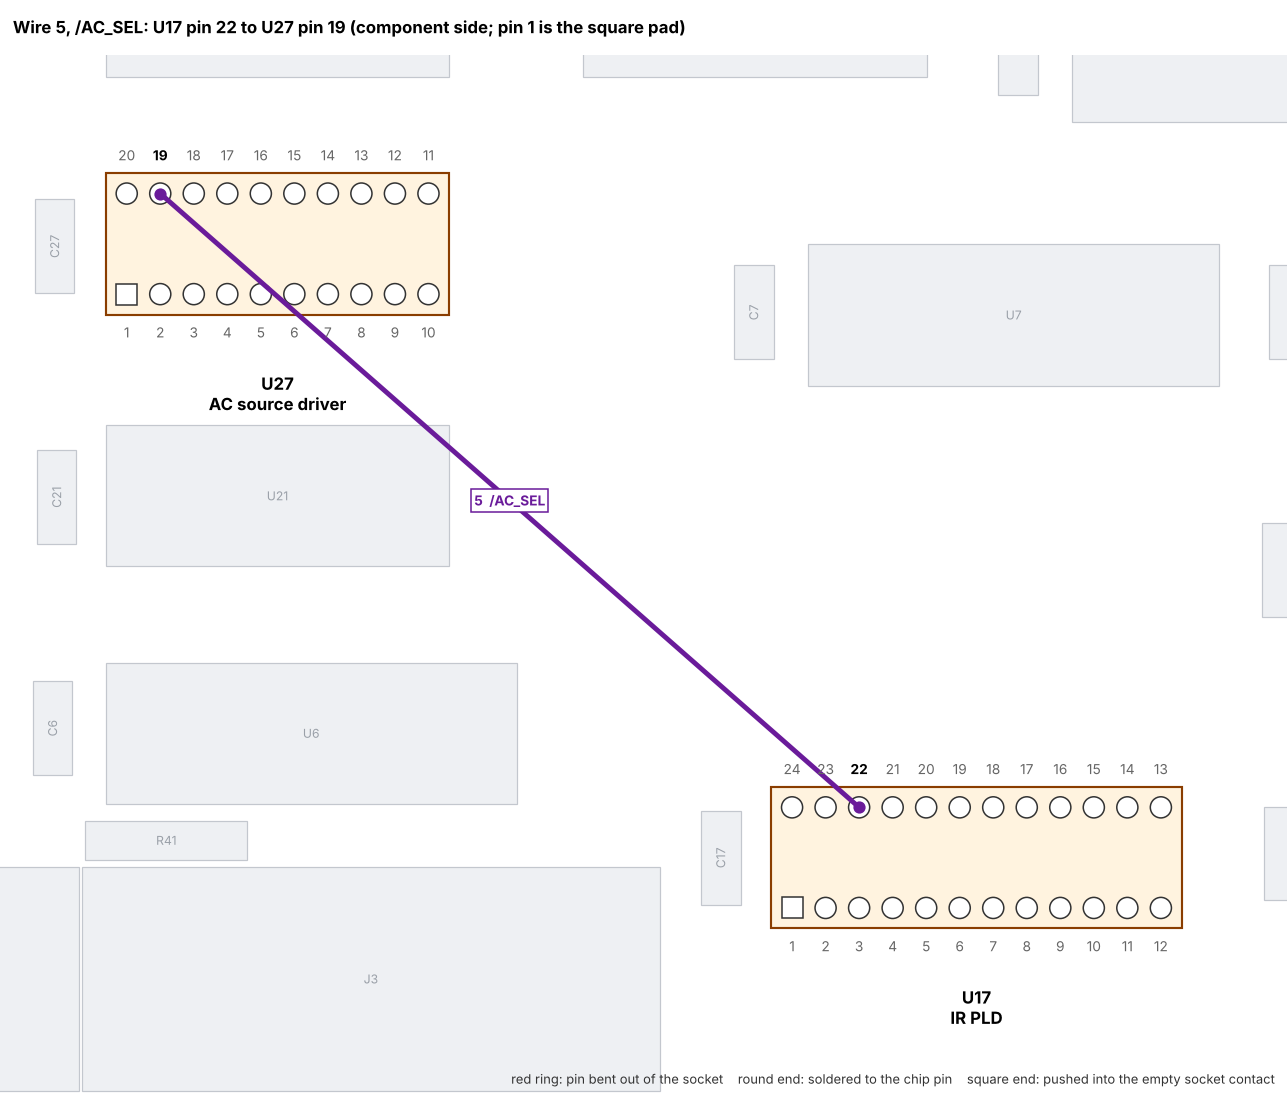
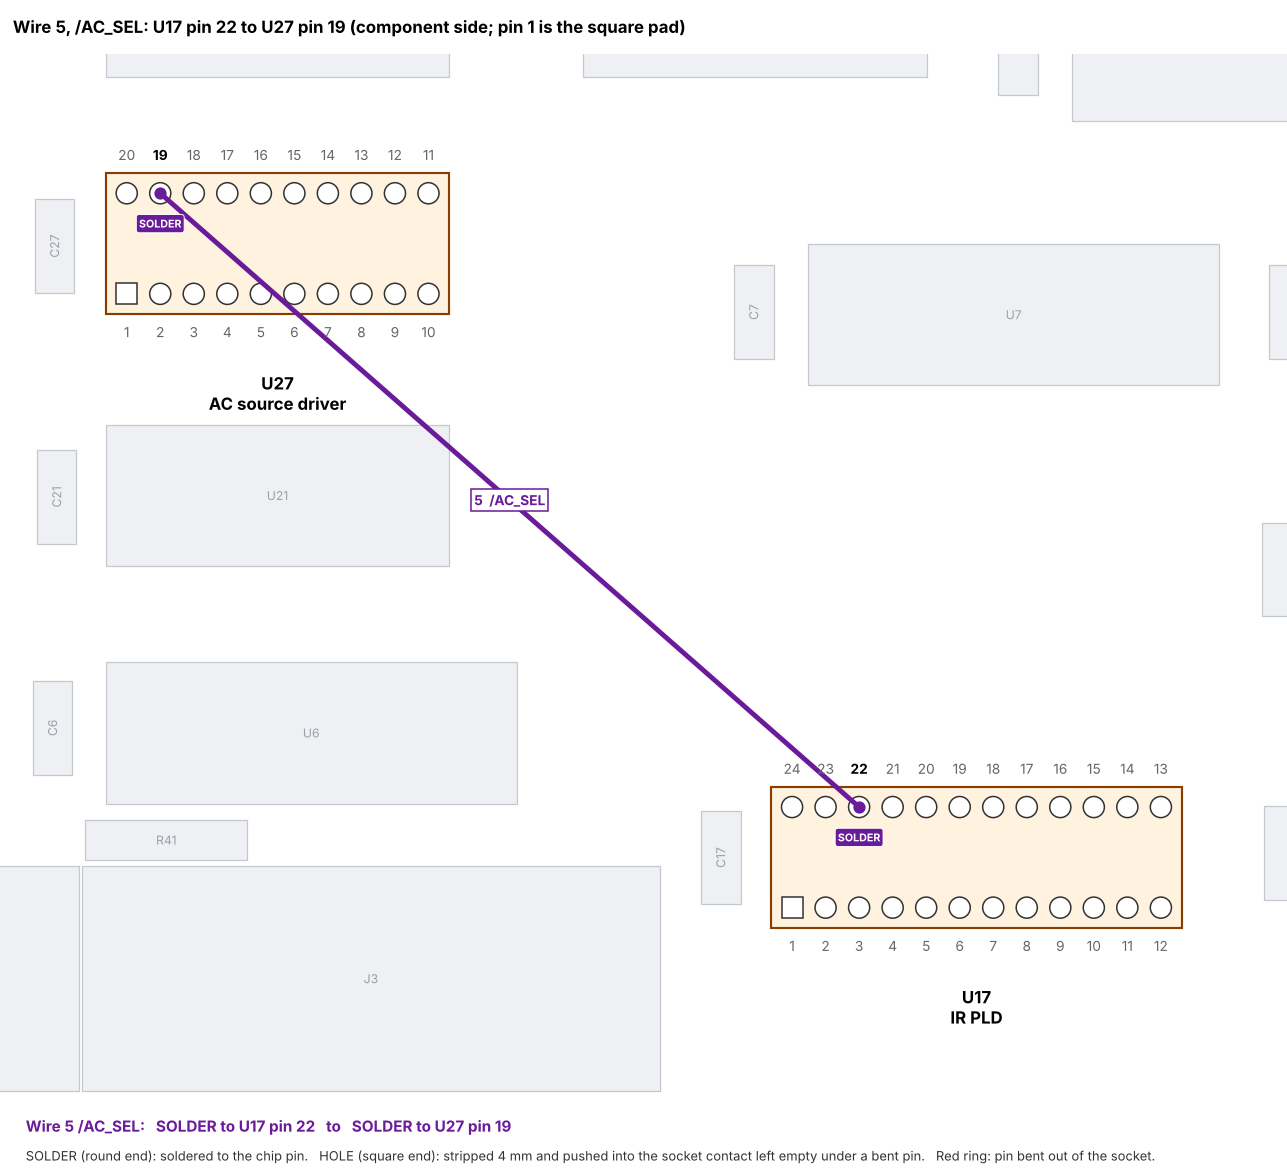
Rev B mod pictures: tag every wire end SOLDER or HOLE, wire list under each close-up
Claude-Session: https://claude.ai/code/session_01DnW5SSquubgjVJMDSZnqaz

diff --git a/src/scripts/gen_revb_mod.py b/src/scripts/gen_revb_mod.py
@@ -8,7 +8,9 @@ Draws, from kicad/placard.kicad_pcb (read as text, never written):
 
     revb_mod_board.png    the whole board, the chips and the wire runs
     revb_mod_video.png    U35, U13 and U15 enlarged: every pin numbered,
-                          the lifted pins and the four wires there
+                          the lifted pins and the four wires there, each
+                          wire end tagged SOLDER (on the chip pin) or HOLE
+                          (in the empty socket contact), and the wire list
     revb_mod_acsel.png    U17 and U27 enlarged: the /AC_SEL wire
 
 The lifts and wires are the tables LIFT and WIRES below; the guide's
@@ -131,7 +133,8 @@ def board(parts, edge, path):
     for name, col, ends in WIRES:
         (ax1, ay1), (ax2, ay2) = [parts[r].pads[n] for r, n, _h in ends]
         ax.plot([ax1, ax2], [ay1, ay2], color=col, lw=2.2, zorder=7, solid_capstyle='round')
-        ax.plot([ax1, ax2], [ay1, ay2], 'o', color=col, ms=4, zorder=7)
+        for (qx, qy), (_r, _n, how) in zip([(ax1, ay1), (ax2, ay2)], ends):
+            ax.plot([qx], [qy], 's' if how == 'hole' else 'o', color=col, ms=4, zorder=7)
     # the names: one box for the four short wires at the video PLDs, one on the long wire
     ax.text(306, 112, 'wires 1-4: T2, T2, /P0, LC7\n(see the close-up)', ha='center', va='center', fontsize=8,
             fontweight='bold', color='#333333', zorder=8, bbox=dict(fc='white', ec='#333333', lw=0.6, pad=2))
@@ -156,8 +159,17 @@ def closeup(parts, refs, wires, title, path, k=0.2, margin=(9, 12, 9, 9), others
     x1 = max(b[2] for b in boxes) + margin[2]
     y1 = max(b[3] for b in boxes) + margin[3]
     w, h = x1 - x0, y1 - y0
-    fig = plt.figure(figsize=(w * k, h * k + 0.5))
-    ax = fig.add_axes([0, 0, 1, h * k / (h * k + 0.5)])
+    lines = []                               # the wire list under the drawing
+    for name, col, es in wires:
+        t = ['%s %s pin %s%s' % ('SOLDER to' if how == 'pin' else 'HOLE: push into the empty socket contact of',
+                                 r, n, ' (bent out)' if how == 'pin' and (r, n) in LIFT else '')
+             for r, n, how in es]
+        lines.append(('Wire %s:   %s   to   %s' % (name.replace('  ', ' '), t[0], t[1]), col))
+    lh = 0.24                                # inches per list line
+    low = lh * (len(lines) + 1) + 0.15
+    fh = h * k + 0.5 + low
+    fig = plt.figure(figsize=(w * k, fh))
+    ax = fig.add_axes([0, low / fh, 1, h * k / fh])
     ax.set_xlim(x0, x1)
     ax.set_ylim(y1, y0)
     ax.set_aspect('equal')
@@ -214,15 +226,28 @@ def closeup(parts, refs, wires, title, path, k=0.2, margin=(9, 12, 9, 9), others
             both = len(set(h for h, _c in ends[(r, n)])) > 1
             pts.append((x, y + (0.55 if how == 'hole' else -0.55) * (1 if both else 0)))
         ax.plot([q[0] for q in pts], [q[1] for q in pts], color=col, lw=3.2, zorder=5, solid_capstyle='round')
-        for (x, y), (_r, _n, how) in zip(pts, es):
+        for (x, y), (r, _n, how) in zip(pts, es):
             ax.plot([x], [y], marker='s' if how == 'hole' else 'o', color=col, ms=7, zorder=5)
+            # the tag: between two pins of a column, or inside the body of a chip that lies flat
+            b = parts[r].box()
+            if (b[3] - b[1]) > (b[2] - b[0]):
+                tx, ty = x, y + (1.4 if how == 'hole' else -1.4)
+            else:
+                tx, ty = x, y + (2.3 if y < (b[1] + b[3]) / 2 else -2.3)
+            ax.text(tx, ty, 'HOLE' if how == 'hole' else 'SOLDER', ha='center', va='center', fontsize=7,
+                    fontweight='bold', color='white', zorder=9,
+                    bbox=dict(fc=col, ec='white', lw=0.6, pad=0.25,
+                              boxstyle='square' if how == 'hole' else 'round'))
         mx, my = (pts[0][0] + pts[1][0]) / 2, (pts[0][1] + pts[1][1]) / 2
         ax.text(mx, my, name, ha='center', va='center', fontsize=9, fontweight='bold', color=col, zorder=8,
                 bbox=dict(fc='white', ec=col, lw=1, pad=2))
-    fig.text(0.01, 1 - 0.25 / (h * k + 0.5), title, fontsize=11, fontweight='bold', va='center')
-    fig.text(0.99, 0.012, 'red ring: pin bent out of the socket    round end: soldered to the chip pin    '
-             'square end: pushed into the empty socket contact', fontsize=8.5, ha='right', va='bottom',
-             color='#333333')
+    fig.text(0.01, 1 - 0.25 / fh, title, fontsize=11, fontweight='bold', va='center')
+    for i, (text, col) in enumerate(lines):
+        fig.text(0.02, (low - 0.12 - lh * (i + 0.5)) / fh, text, fontsize=10, fontweight='bold', color=col,
+                 va='center')
+    fig.text(0.02, 0.12 / fh, 'SOLDER (round end): soldered to the chip pin.   HOLE (square end): stripped 4 mm '
+             'and pushed into the socket contact left empty under a bent pin.   Red ring: pin bent out of the '
+             'socket.', fontsize=8.5, va='center', color='#333333')
     fig.savefig(path, dpi=110)
     plt.close(fig)
     print('wrote', os.path.relpath(path, B.ROOT))

diff --git a/docs/hardware/REVB_MOD.md b/docs/hardware/REVB_MOD.md
@@ -77,6 +77,10 @@ contact under a bent pin: that contact is the board's trace.
 | 4 | LC7 | U13 socket contact 6 (hole) | U35 pin 21 (pin) | 15 mm |
 | 5 | /AC_SEL | U17 pin 22 (pin) | U27 pin 19 (pin) | 70 mm |
 
+On the pictures every wire end is tagged **SOLDER** (round end, on the chip
+pin) or **HOLE** (square end, in the empty socket contact), and the list
+under each drawing says the same in words.
+
 ![Wires 1 to 4](revb_mod/revb_mod_video.png)
 
 ![Wire 5](revb_mod/revb_mod_acsel.png)
